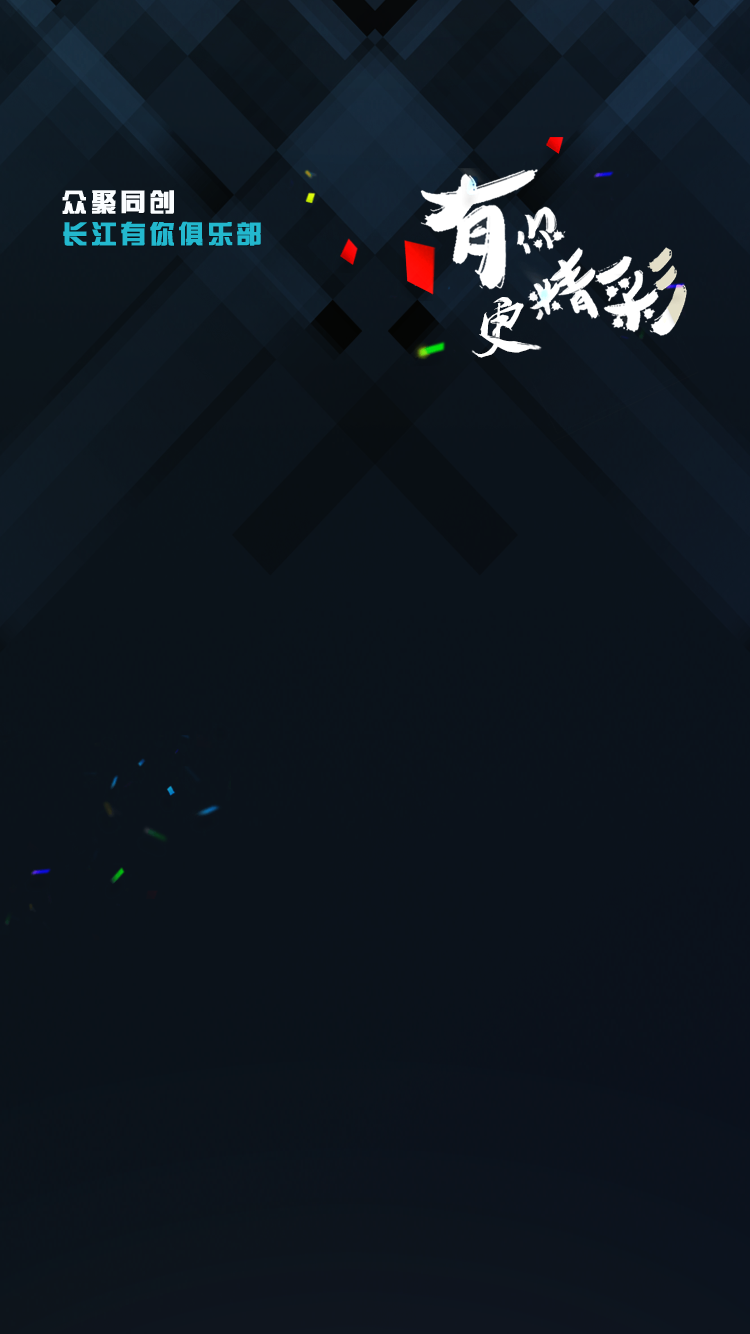
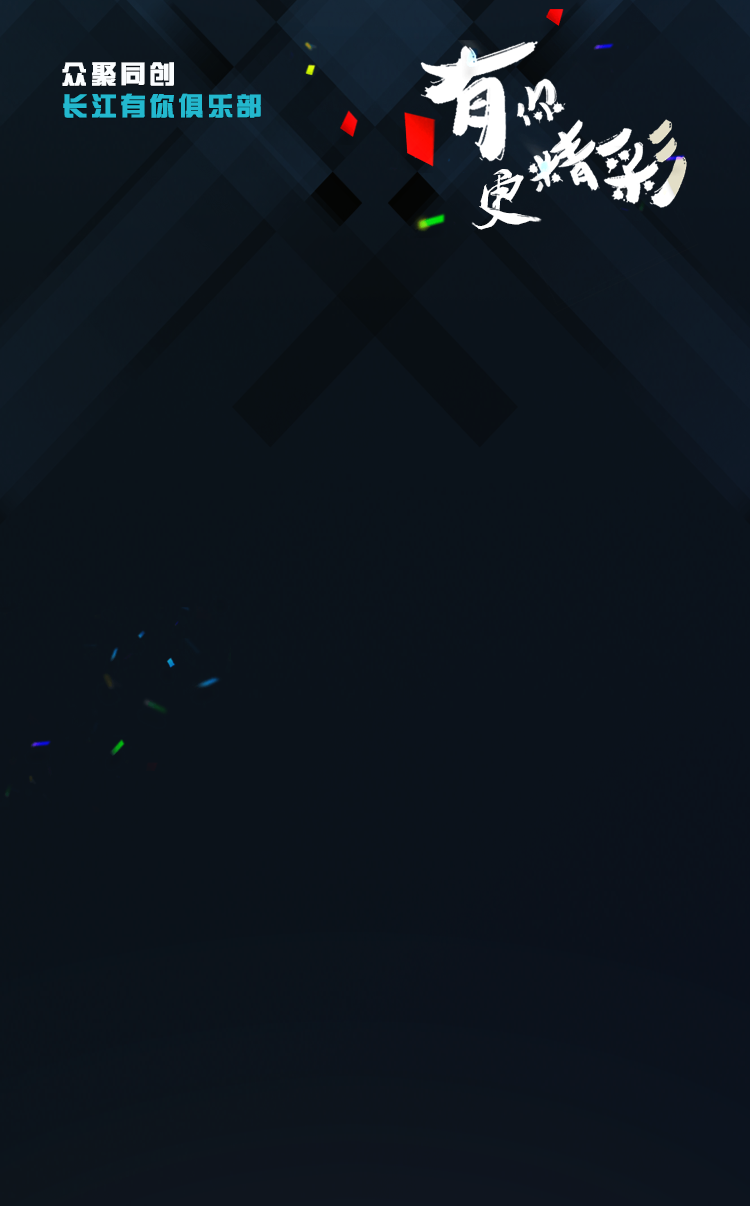
add pop in invite-3.html & modify invite.css

diff --git a/css/invite.css b/css/invite.css
@@ -1,13 +1,23 @@
 body{
-	background:url('../imgs/bg2.png') center 0 no-repeat;
+	background:url('../imgs/bg2.png') center 0 no-repeat fixed;
 	color:#273545;
 	background-size:cover;
 }
+/* .invite{
+	background:url('../imgs/bg2.png') center 0 no-repeat;
+	color:#273545;
+	width:37.5rem;
+	height:46.55rem;
+	margin:0;
+	padding-top:13.75rem;
+	position:relative;
+} */
 .invite .user_info_wrapper{
 	width:31.5rem;
 	margin:0 auto;
 	margin-top:13.75rem;
 	background:#FFFFFF;
+	position:relative;
 }
 .invite .inviter_info_wrapper{
 	font-size:1.6rem;
@@ -47,7 +57,7 @@ body{
 .invite .user_info .info_tips{
 	text-align:center;
 	font-size:1.5rem;
-	margin-bottom:5rem;
+	margin-bottom:3rem;
 }
 .invite .user_info .row{
 	border-bottom:1px solid #A0A0A0;
@@ -99,4 +109,103 @@ body{
 	border:0;
 	display:block;
 	margin-top: 5.25rem;
+}
+.invite-3 button{
+	margin-top:1.25rem;
+}
+.invite-3 .mask{
+	position:absolute;
+	top:0;
+	bottom:0;
+	left:0;
+	right:0;
+	background:rgba(0, 0, 0, 0.7);
+}
+.invite-3 .pop{
+	background:url('../imgs/bg_pop.png');
+	width:33rem;
+	height:35rem;
+	background-size:cover;
+	position:absolute;
+	top:50%;
+	margin-top:-17.5rem;
+	left:50%;
+	margin-left:-16.5rem;
+}
+.invite-3 .pop .pop_t{
+	height:5rem;
+	line-height:5rem;
+	text-align:center;
+	font-size:1.6rem;
+	color:#ffffff;
+}
+.invite-3 .pop .pop_c{
+	font-size:1.5rem;
+}
+.invite-3 .pop_info .pop_c{
+	padding:2rem 3rem;
+}
+.invite-3 .pop_info .pop_c p{
+	line-height:2.3rem;
+	text-indent:3rem;
+	margin-bottom:1rem;
+}
+.invite-3 .pop_info .dl_app{
+	width:19.35rem;
+	height:4.5rem;
+	line-height:4.5rem;
+	font-size:1.6rem;
+	text-align:center;
+	color:#ffffff;
+	display:block;
+	background:#23b8ce;
+	border-radius:5px;
+	margin:0 auto;
+}
+.invite-3 .pop_user_info .pop_c{
+	padding:1.3rem 1.6rem;
+}
+.invite-3 .pop_user_info .item{
+	background:url('../imgs/bg_item1.png');
+	background-size:cover;
+	width:25.25rem;
+	height:3.75rem;
+	line-height:3.75rem;
+	padding-left:4rem;
+	margin-bottom:0.7rem;
+}
+.invite-3 .pop_user_info .item1{
+	background:url('../imgs/bg_item1.png');
+	margin-top: 1rem;
+}
+.invite-3 .pop_user_info .item2{
+	background:url('../imgs/bg_item2.png');
+}
+.invite-3 .pop_user_info .item3{
+	background:url('../imgs/bg_item3.png');
+}
+.invite-3 .pop_user_info .item4{
+	background:url('../imgs/bg_item4.png');
+}
+.invite-3 .pop_user_info .button_wrapper{
+	margin-top:0.5rem;
+}
+.invite-3 .pop_user_info .btn_back{
+	background: url('../imgs/bg_back.png');
+	background-size:cover;
+	width:13.45rem;
+	width:269px;
+	height:4.2rem;
+	line-height:4.2rem;
+	text-align:center;
+	color:#666666;
+}
+.invite-3 .pop_user_info .btn_reg{
+	background-image: url(../imgs/bg_reg.png);
+	background-size:cover;
+	width:14.6rem;
+	height:4.5rem;
+	line-height:4.5rem;
+	color:#fff;
+	text-align:center;
 }

diff --git a/html/invite-3.html b/html/invite-3.html
@@ -4,7 +4,7 @@
 	<meta charset="UTF-8">
 	<meta http-equiv="X-UA-Compatible" content="IE=edge">
 	<meta name="viewport" content="width=device-width, initial-scale=1, maximum-scale=1, user-scalable=no">
-	<title>邀请函2</title>
+	<title>邀请函3</title>
 	<link rel="stylesheet" href="../css/common.css">
 	<link rel="stylesheet" href="../css/invite.css">
 </head>
@@ -39,8 +39,34 @@
 						<a href="#" class="get_verification float-left">获取验证码</a>
 					</div>
 				</div>
-				<div class="clear"><button>下一步</button></div>
+				<div class="clear"><button>提交</button></div>
 			</form>
+		</div>
+		<div class="mask">
+			<div class="pop pop_info hide">
+				<div class="pop_t">信息确认</div>
+				<div class="pop_c">
+					<p>内测期间，通过校友邀请进入平台的账号可以使用所有功能。</p>
+					<p>为了保证长江有你平台的专属性和私密性，长江有你平台只针对长江同学开放。</p>
+					<p>您填写的注册信息已同步提交至邀请人，待邀请人帮忙确认您的真实身份，以便后期为您提供更多的服务。</p>
+					<a href="#" class="dl_app">下载长江有你app</a>
+				</div>
+			</div>
+			<div class="pop pop_user_info">
+				<div class="pop_t">信息确认</div>
+				<div class="pop_c">
+					<p>您的注册信息如下</p>
+					<p class="item item1">姓名：小强</p>
+					<p class="item item2">期数 ： CK 19</p>
+					<p class="item item3">您将加入： 测试一群</p>
+					<p class="item item4">登录平台手机号 : 189 8094 7663</p>
+					<p class="text-right">邀请人：王炯</p>
+					<div class="button_wrapper clear">
+						<a href="#" class="btn btn_back float-left">返回</a>
+						<a href="#" class="btn btn_reg float-right">确认注册</a>
+					</div>
+				</div>
+			</div>
 		</div>
 	</div>
 </body>
